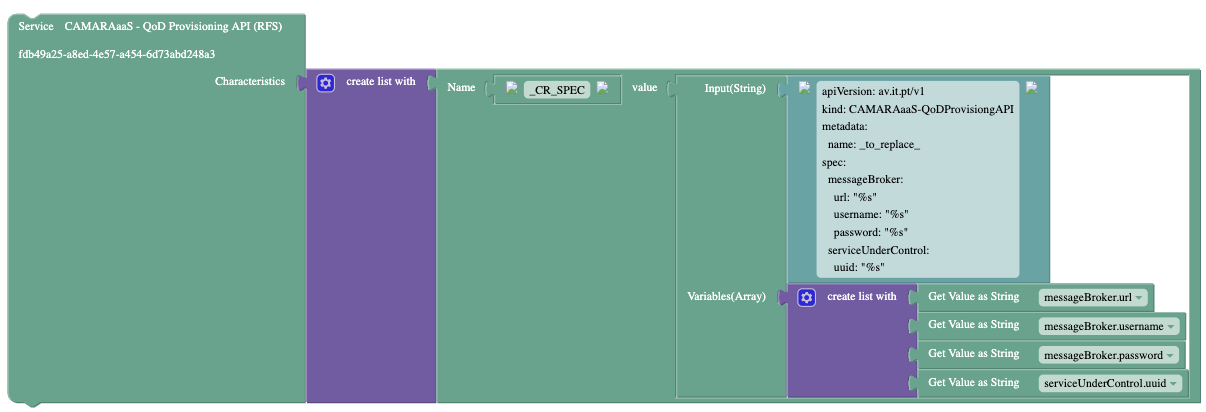
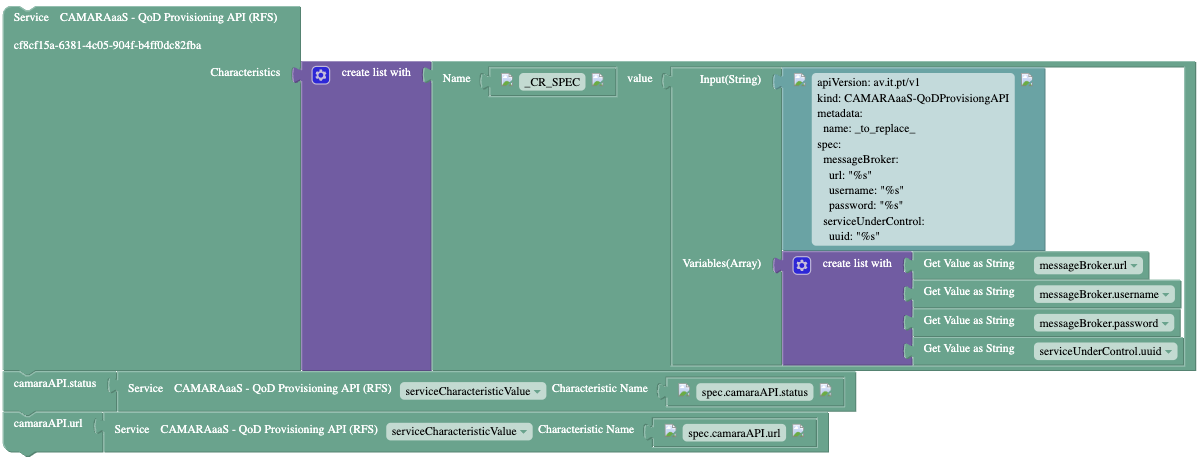
Updated Supervision Rule

Changed region(s): [[0.0, 0.0, 1.0, 0.9903]]

diff --git a/QoDProvisioningAPI/OSL/Rules/supervision.java b/QoDProvisioningAPI/OSL/Rules/supervision.java
@@ -16,3 +16,5 @@ spec:
 , getCharValAsString("messageBroker.url"), getCharValAsString("messageBroker.username"), getCharValAsString("messageBroker.password"), getCharValAsString("serviceUnderControl.uuid")));
 setServiceRefCharacteristicsValues("CAMARAaaS - QoD Provisioning API (RFS)	", charvals);
 }
+setCharValFromStringType("camaraAPI.status", getServiceRefPropValue("CAMARAaaS - QoD Provisioning API (RFS)	", "serviceCharacteristicValue", "spec.camaraAPI.status"));
+setCharValFromStringType("camaraAPI.url", getServiceRefPropValue("CAMARAaaS - QoD Provisioning API (RFS)	", "serviceCharacteristicValue", "spec.camaraAPI.url"));
